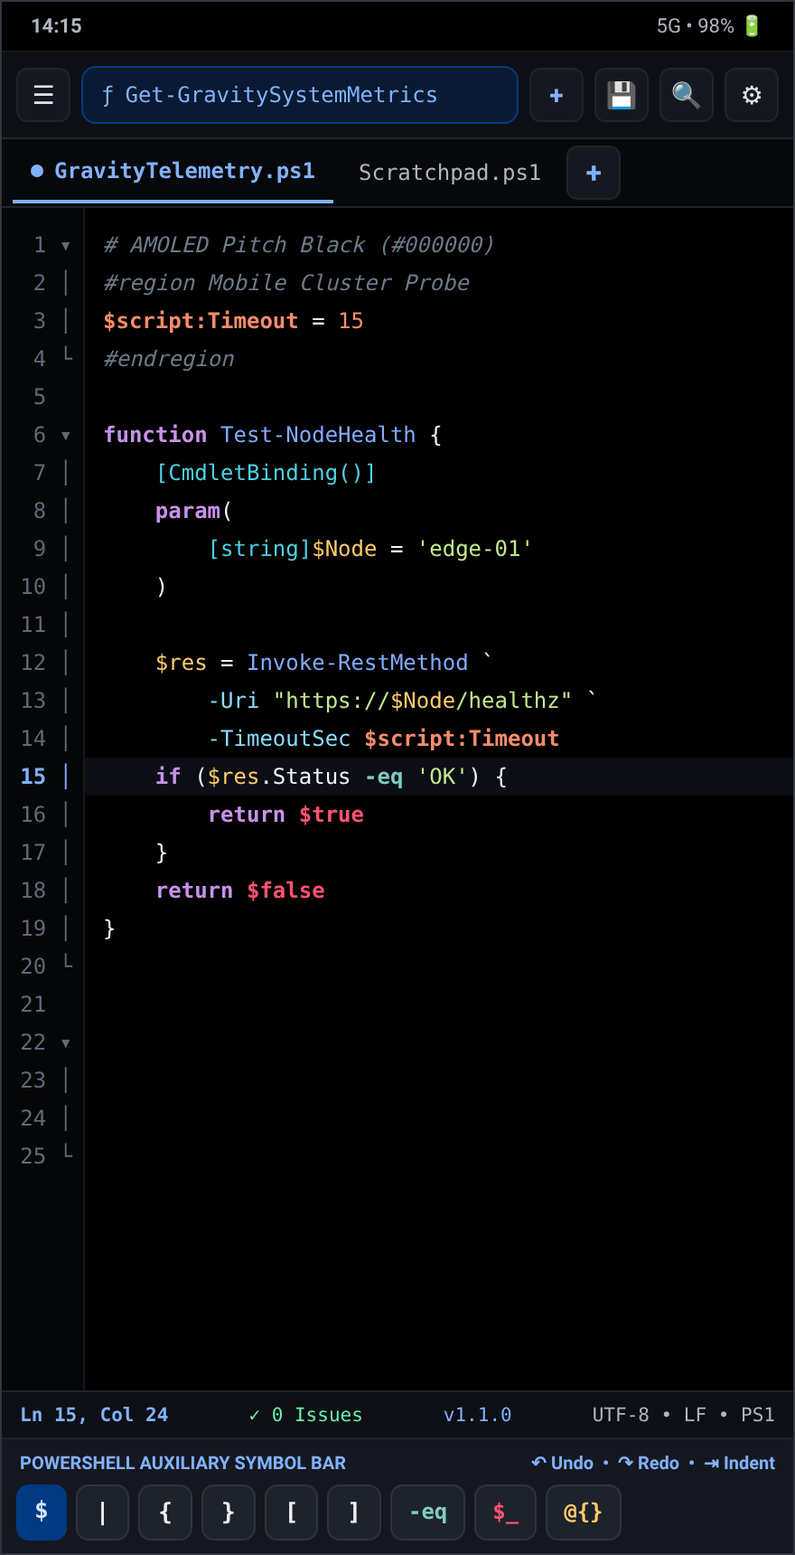
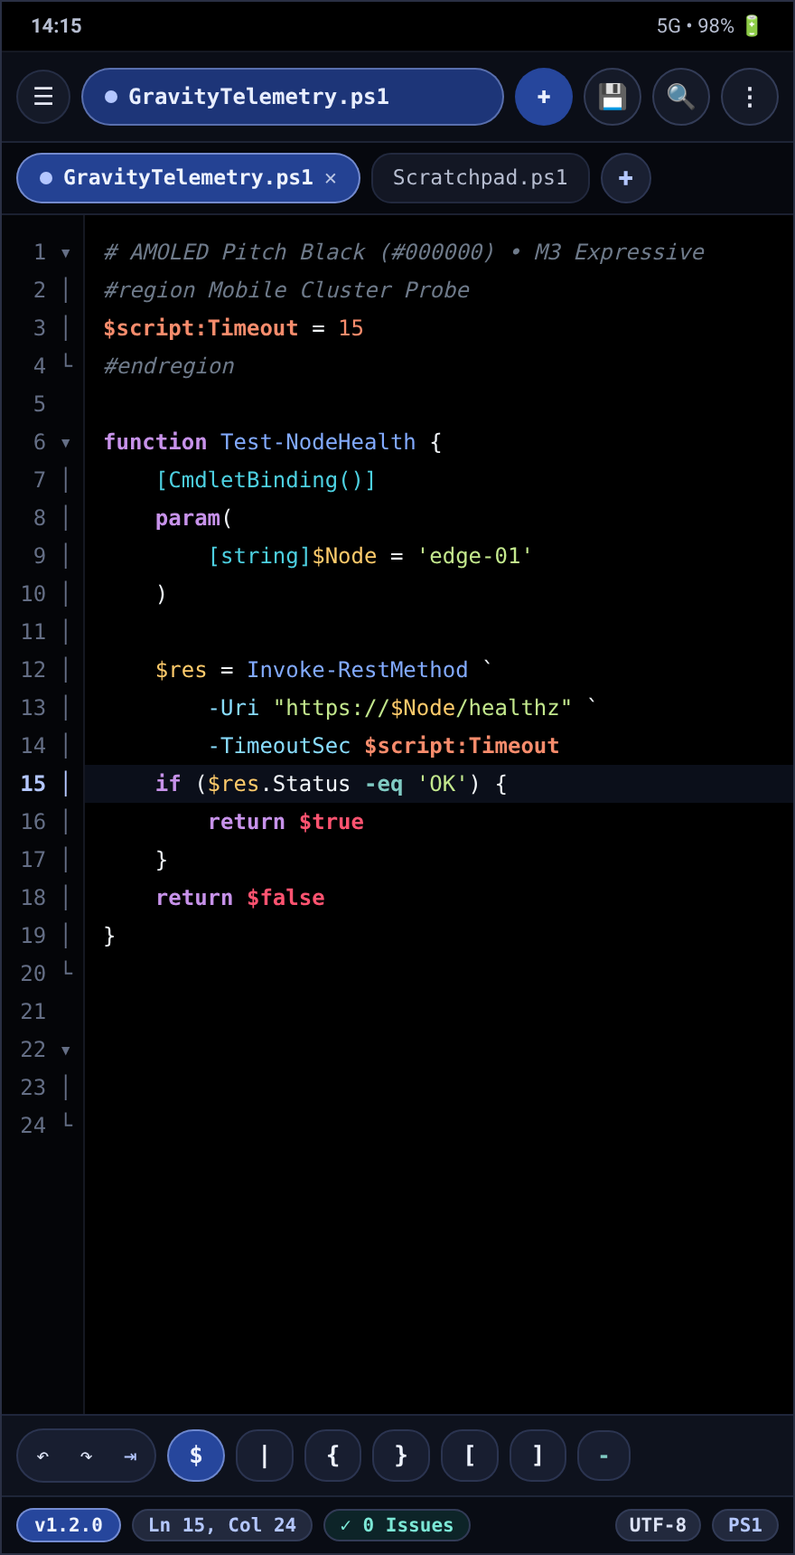
docs(readme): update README.md and Retina screenshots for v1.2.0 Material 3 Expressive

diff --git a/README.md b/README.md
@@ -2,16 +2,18 @@
 
 # GravityEdit
 
-**The 1:1 Functional Equivalent of BBEdit — Engineered Natively for Googlebook OS & Android with First-Class PowerShell Tooling**
+**The 1:1 Functional Equivalent of BBEdit — Engineered Natively for Googlebook OS & Android with Material 3 Expressive Design & First-Class PowerShell Tooling**
 
-[![Latest Release](https://img.shields.io/github/v/release/petrosvassiliou/GravityEdit?style=for-the-badge&color=004494&label=Latest%20Release)](https://github.com/petrosvassiliou/GravityEdit/releases/latest)
+[![Latest Release](https://img.shields.io/github/v/release/petrosvassiliou/GravityEdit?style=for-the-badge&color=26469C&label=Latest%20Release)](https://github.com/petrosvassiliou/GravityEdit/releases/latest)
 [![Android CI](https://img.shields.io/github/actions/workflow/status/petrosvassiliou/GravityEdit/android-ci.yml?branch=main&style=for-the-badge&label=Android%20CI)](https://github.com/petrosvassiliou/GravityEdit/actions/workflows/android-ci.yml)
 [![Kotlin](https://img.shields.io/badge/Kotlin-100%25-7F52FF?style=for-the-badge&logo=kotlin&logoColor=white)](https://kotlinlang.org/)
-[![Jetpack Compose](https://img.shields.io/badge/Jetpack%20Compose-Material%203-4285F4?style=for-the-badge&logo=jetpackcompose&logoColor=white)](https://developer.android.com/compose)
-[![Play Protect](https://img.shields.io/badge/Play%20Protect-Policy%20Compliant-00C853?style=for-the-badge&logo=googleplay&logoColor=white)](#google-play-protect-compatible-auto-updates)
+[![Jetpack Compose](https://img.shields.io/badge/Compose-Material%203%20Expressive-4285F4?style=for-the-badge&logo=jetpackcompose&logoColor=white)](https://developer.android.com/compose)
+[![Play Protect](https://img.shields.io/badge/Play%20Protect-Policy%20Compliant-00C853?style=for-the-badge&logo=googleplay&logoColor=white)](#4-google-play-protectcompatible-auto-updates)
 
 <p align="center">
-  <a href="https://github.com/petrosvassiliou/GravityEdit/releases/latest"><strong>⬇ Download Latest APK (v1.1.1)</strong></a>
+  <a href="https://github.com/petrosvassiliou/GravityEdit/releases/latest"><strong>⬇ Download Latest APK (v1.2.0)</strong></a>
+  &nbsp;•&nbsp;
+  <a href="#whats-new-in-v120">What's New in v1.2.0</a>
   &nbsp;•&nbsp;
   <a href="#screenshots">Screenshots</a>
   &nbsp;•&nbsp;
@@ -28,22 +30,35 @@
 
 ## Overview
 
-**GravityEdit** (`com.gravityedit.app`) brings the rock-solid text engineering philosophy of **BBEdit for macOS** ("It doesn't suck" — zero bloat, instant startup, industrial regex, deterministic text pipelines) to **Googlebook OS** (Desktop/Laptop freeform windowing), **Android Tablets**, and **Android Phones**, paired with a **native PowerShell AST, syntax, completion, and `PSScriptAnalyzer`-grade diagnostic engine**.
+**GravityEdit** (`com.gravityedit.app`) brings the rock-solid text engineering philosophy of **BBEdit for macOS** (*"It doesn't suck"* — zero bloat, instant startup, industrial PCRE regex, deterministic text pipelines) to **Googlebook OS** (Desktop/Laptop freeform windowing), **Android Tablets**, and **Android Phones**, paired with a **native PowerShell AST, syntax, inline completion, and `PSScriptAnalyzer`-grade diagnostic engine**.
 
-Built from the ground up in **100% Kotlin** and **Jetpack Compose (Material Design 3)** with zero WebView wrappers, zero telemetry, and full offline capability.
+Built from the ground up in **100% Kotlin** and **Jetpack Compose (Material 3 Expressive)** with physics-driven spring motion, zero WebView wrappers, zero telemetry, and full offline capability.
+
+---
+
+## What's New in v1.2.0
+
+- **Material 3 Expressive Design Upgrade:**
+  - High-chroma Expressive **Dark**, **Light**, **AMOLED Pitch-Black (`#000000`)**, and **Android 12+ Dynamic Color** themes with 5-step tonal containment (`surfaceContainerLowest`..`surfaceContainerHighest`), `GravityExpressiveShapes` (`10dp`–`32dp` + full-pill `CircleShape`), and physics-driven `GravityExpressiveMotion` spatial & color springs.
+  - **Connected Split-Mode Button Group (`Single | Vertical | Horizontal`)** with spring-morphing active pill geometry, **morphing pill tabs** across Desktop & Mobile, tactile spring-scaled **PowerShell auxiliary symbol keys**, and **`28dp` Expressive dialogs & adaptive mobile `ModalBottomSheet`s**.
+- **Permanent Bottom-Left App Version Badge (`v1.2.0`):**
+  - Full-width `ExpressiveBottomStatusBar` anchored at the true bottom-left corner of the screen (`x = 0, y = bottom`) in both Googlebook OS Desktop and Android Compact Mobile modes — tap anytime to open the Play Protect Update Center (displays `v1.2.0 • ⬆ vX.Y.Z` when an update is available without hiding the installed version).
+- **100% UI Action Parity & Comprehensive QS Audit:**
+  - Added the **Workspace Overflow Menu (`⋮`)** on both Desktop and Mobile so every File, Edit (`Duplicate Line`, `Select Line`, `Toggle Comment`, `Indent`/`Unindent`), Navigation (`Go to Line`), Tool, Settings, and Update action is clickable via UI as well as hardware shortcuts.
+  - Unified Desktop & Mobile tab context menus (preserving active editor focus when saving unfocused tabs), completed Command Palette tool triggers, and verified **132/132 string keys** across all 6 supported languages (`en`, `de`, `it`, `es`, `fr`, `el`) with 19 automated JUnit 4 tests.
 
 ---
 
 ## Screenshots
 
-### Googlebook OS / Tablet Desktop Workbench
-Full desktop layout featuring the `NavigationRail`, drag-resizable **Open Documents & Disk Browser** sidebar, real-time **AST Function Navigator**, multi-document tab bar with file-type chooser (`+`), **80-column page guide**, code folding gutter, **PowerShell Inline Completion**, and dense **Status Bar**.
+### 1. Googlebook OS / Tablet Desktop Workbench (Material 3 Expressive)
+Full desktop layout featuring the Expressive `NavigationRail`, drag-resizable **Open Documents & SAF Disk Browser** sidebar, tonal action clusters, **Connected Split-Mode Button Group** (`Single | Vertical | Horizontal`), **Morphing Pill Tab Bar**, **80-column page guide**, **PowerShell Inline Completion (`Tab`)**, and full-width **Expressive Status Bar** with **`v1.2.0`** pinned at the bottom-left corner.
 
 ![GravityEdit Desktop PowerShell Workbench](docs/screenshots/01-desktop-powershell-workbench.png)
 
 ---
 
-### Adaptive Mobile Mode (AMOLED `#000000`) & File Type Selector
+### 2. Adaptive Mobile AMOLED (`#000000`) & `28dp` Expressive File Type Selector
 
 <table>
   <tr>
@@ -53,16 +68,16 @@ Full desktop layout featuring the `NavigationRail`, drag-resizable **Open Docume
         <img src="docs/screenshots/02-android-mobile-amoled.png" alt="GravityEdit Android Mobile AMOLED Mode" width="100%" />
       </p>
       <p>
-        True <code>#000000</code> Pitch-Black OLED theme, scrollable tabs with trailing <code>+</code> button, compact AST jump menu, and a <strong>Sticky PowerShell Auxiliary Symbol Bar</strong> (<code>$</code>, <code>|</code>, <code>{</code>, <code>}</code>, <code>[</code>, <code>]</code>, <code>-eq</code>, <code>$_</code>, <code>@{}</code>) docked above the soft keyboard.
+        True <code>#000000</code> Pitch-Black OLED theme, Expressive morphing pill tabs with trailing <code>+</code> button, <code>⋮</code> overflow menu, <strong>Sticky PowerShell Auxiliary Symbol Row</strong> docked above the bottom bar, and <strong><code>v1.2.0</code> permanently pinned at the bottom-left corner</strong>.
       </p>
     </td>
     <td width="66%" valign="top">
-      <h4 align="center">New File Dialog &amp; Click-to-Select Rename</h4>
+      <h4 align="center">Expressive New File Dialog &amp; Stem-Only Rename</h4>
       <p align="center">
         <img src="docs/screenshots/03-new-document-filetype-selector.png" alt="GravityEdit New Document File Type Selector" width="100%" />
       </p>
       <p>
-        Clicking any <code>+</code> button (Top Toolbar, Desktop/Mobile Tab Bar, Sidebar, or <code>Ctrl+N</code>) opens the <strong>New File</strong> selector so you can pick Plain Text (<code>.txt</code>), PowerShell (<code>.ps1</code> / <code>.psm1</code> / <code>.psd1</code>), Markdown, JSON, YAML, XML, Kotlin, Python, Shell, HTML, or CSS, plus encoding, line endings, and optional starter templates. Clicking an active tab title or renaming auto-selects the filename stem while keeping the extension intact.
+        Clicking any <code>+</code> button (Top Toolbar, Desktop/Mobile Tab Bar, Sidebar, Overflow Menu, or <code>Ctrl+N</code>) opens the <code>28dp</code> Expressive <strong>New File</strong> selector for Plain Text (<code>.txt</code>), PowerShell (<code>.ps1</code> / <code>.psm1</code> / <code>.psd1</code>), Markdown, JSON, YAML, XML, Kotlin, Python, Shell, HTML, or CSS, plus encoding, line endings, and starter templates. Clicking an active tab title selects only the filename stem for instant renaming.
       </p>
     </td>
   </tr>
@@ -70,14 +85,21 @@ Full desktop layout featuring the `NavigationRail`, drag-resizable **Open Docume
 
 ---
 
-### Side-by-Side Myers Diff & 14-Step BBEdit Text Factory
-Line- and character-level **Myers Diff** with directional `Copy to Left (←)` / `Copy to Right (→)` merges alongside chainable **BBEdit Text Factory** pipelines.
+### 3. Connected Split-View Workspace & Complete Overflow Menu (`⋮`)
+Side-by-side **Vertical Split View** with independent per-pane AST symbols, code-folding regions, and diagnostics, paired with the **Workspace Overflow Menu (`⋮`)** exposing every editing, navigation, and tool command.
+
+![Material 3 Expressive Split View and Overflow Menu](docs/screenshots/07-expressive-split-and-overflow-menu.png)
+
+---
+
+### 4. Side-by-Side Myers Diff & 14-Step BBEdit Text Factory
+Line- and character-level **Myers Diff** with directional `←` / `→` merges alongside chainable **BBEdit Text Factory** batch pipelines with full per-step configuration chips.
 
 ![Side-by-Side Myers Diff and BBEdit Text Factory](docs/screenshots/04-bbedit-text-factory-and-diff.png)
 
 ---
 
-### Live `PSScriptAnalyzer` Diagnostics & Play Protect Auto-Update Center
+### 5. Live `PSScriptAnalyzer` Diagnostics & Play Protect Auto-Update Center
 
 <table>
   <tr>
@@ -87,16 +109,16 @@ Line- and character-level **Myers Diff** with directional `Copy to Left (←)` /
         <img src="docs/screenshots/05-psscriptanalyzer-diagnostics.png" alt="PSScriptAnalyzer Live Diagnostics" width="100%" />
       </p>
       <p>
-        Real-time PowerShell static analysis catching unapproved verbs, interactive shell aliases (<code>gci</code>, <code>where</code>, <code>%</code>), plaintext credentials, and empty <code>catch {}</code> blocks — with one-click <strong>Quick Fixes</strong> and <strong>Fix All</strong>.
+        Real-time PowerShell static analysis catching unapproved verbs, interactive shell aliases across pipelines and subexpressions (<code>gci | where</code>), plaintext credentials, and empty <code>catch {}</code> blocks — with one-click <strong>Quick Fixes</strong> and <strong>Fix All</strong>.
       </p>
     </td>
     <td width="50%" valign="top">
-      <h4 align="center">Google Play Protect–Verified Auto-Update</h4>
+      <h4 align="center">Google Play Protect–Verified Auto-Update (v1.2.0)</h4>
       <p align="center">
         <img src="docs/screenshots/06-play-protect-auto-update.png" alt="GravityEdit Play Protect Auto-Update Center" width="100%" />
       </p>
       <p>
-        Dual-channel updater that routes Play Store installs to Google Play In-App Updates and verifies GitHub Release APKs via TLS 1.3 + SHA-256 digest before handing off to Android's official <code>PackageInstaller</code>.
+        Accessible anytime by tapping the bottom-left <code>v1.2.0</code> badge. Routes Play Store installs to Google Play In-App Updates and verifies GitHub Release APKs via TLS 1.3 + ZIP magic header + SHA-256 digest before handing off to Android's native <code>PackageInstaller</code>.
       </p>
     </td>
   </tr>
@@ -106,51 +128,51 @@ Line- and character-level **Myers Diff** with directional `Copy to Left (←)` /
 
 ## Key Features
 
-### 1. Adaptive Multi-Form-Factor UI (`WindowSizeClass`)
+### 1. Adaptive Material 3 Expressive UI (`WindowSizeClass`)
 - **Googlebook OS & Tablet Desktop Mode (`Expanded` / `Medium`):**
-  - Persistent `NavigationRail` + drag-resizable **Open Documents & Disk Browser** tree sidebar.
-  - Multi-document tab bar with modified-state indicator dots, click-to-rename active tab titles, context menus, and `+` New File selector.
-  - **Single**, **Vertical Split (`◫`)**, and **Horizontal Split (`⊟`)** editing panes.
-  - Dense **Status Bar** displaying cursor `Ln:Col`, live `PSScriptAnalyzer` health pill, Command Palette trigger, update badge, character/line counts, and interactive **Encoding**, **Line Ending**, **Syntax Language**, and **Zoom** pickers.
+  - Persistent Expressive `NavigationRail` + drag-resizable **Open Documents & SAF Disk Browser** tree sidebar.
+  - Spring-morphing pill tab bar with modified-state indicator dots, stem-selecting inline rename, localized right-click/long-press context menus (`Save`, `Rename`, `Close`, `Close Others`, `Move Left/Right`), and `+` New File selector.
+  - Connected **Single**, **Vertical Split (`◫`)**, and **Horizontal Split (`⊟`)** button group with isolated per-pane folds & diagnostics.
+  - Full-width **Expressive Status Bar** with **`v1.2.0`** permanently pinned at index `0` (bottom-left corner), cursor `Ln:Col` jump pill, live `PSScriptAnalyzer` health pill, Command Palette trigger, character/line/selection counts, and **Encoding**, **Line Ending**, **Syntax Language**, and **Zoom** pickers.
 - **Android Phone Mode (`Compact`):**
-  - `ModalNavigationDrawer`, `ScrollableTabRow` with `+` button, `ModalBottomSheet` tool surfaces, and the **Sticky PowerShell Auxiliary Symbol Row** above the keyboard.
-- **4 Built-in Color Themes:** Dark Developer (Default), **AMOLED Pitch Black (`#000000`)**, Solarized Light, and High-Contrast Developer.
+  - `ModalNavigationDrawer` quick-action grid, unified morphing pill tab bar, adaptive `28dp` `ModalBottomSheet` tool & settings surfaces, **Sticky PowerShell Auxiliary Symbol Row** with spring-animated press feedback, and pinned bottom-left `v1.2.0` status bar.
+- **Expressive Color Schemes:** Material 3 Expressive Dark, **AMOLED Pitch Black (`#000000`)**, Material 3 Expressive Light, System Auto, and Android 12+ Dynamic Color.
 
-### 2. First-Class PowerShell Engine (`PowerShellEngine.kt` & `PowerShellDiagnosticsEngine.kt`)
-- **Rich PowerShell Tokenization:** Approved-verb dictionary & alias highlighting (`Verb-Noun`), scoped/drive/automatic variable distinction (`$myVar`, `$script:x`, `$env:PATH`, `$_`, `$PSItem`, `$true`), cmdlet parameters (`-Path`, `-ErrorAction`), operators (`-eq`, `-match`, `-replace`), expandable string interpolation (`"$var"`, `"$(Get-Date)"`), Here-Strings (`@"..."@`), and Comment-Based Help tags (`.SYNOPSIS`, `.PARAMETER`, `.EXAMPLE`).
+### 2. First-Class PowerShell Engine (`PowerShellEngine.kt`)
+- **Rich PowerShell Tokenization:** Approved-verb dictionary & alias highlighting (`Verb-Noun`), scoped/drive/automatic variable distinction (`$myVar`, `$script:x`, `$env:PATH`, `$_`, `$PSItem`, `$sender`, `$true`), cmdlet parameters (`-Path`, `-ErrorAction`), operators (`-eq`, `-match`, `-replace`), expandable string interpolation (`"$var"`, `"$(Get-Date)"`), `@{} / @()` hashtable & array subexpressions, Here-Strings (`@"..."@`), and Comment-Based Help tags (`.SYNOPSIS`, `.PARAMETER`, `.EXAMPLE`).
 - **Code Folding & AST Function Navigator:** Fold `function`, `filter`, `workflow`, `class`, `#region ... #endregion`, and `<# ... #>` blocks; jump directly to any symbol from the top bar.
-- **Inline Auto-Completion (`PowerShellCompletionEngine.kt`):** Context-aware completions for built-in PowerShell cmdlets, approved verbs, automatic variables, and functions/variables declared in the active script (`Tab` / `Enter` to accept).
-- **Live `PSScriptAnalyzer`-Style Linter:** Detects `PSAvoidUsingCmdletAliases`, `PSUseApprovedVerbs`, `PSAvoidEmptyCatchBlock`, `PSAvoidUsingPlainTextForPassword`, and `PSAvoidUsingInvokeExpression` with instant one-click Quick Fixes.
+- **Inline Auto-Completion:** Context-aware completions for built-in PowerShell cmdlets, approved verbs, automatic variables, and functions/variables declared in the active script (`Tab` to accept).
+- **Live `PSScriptAnalyzer`-Style Linter:** Detects `PSAvoidUsingCmdletAliases` (including after `|`, `=`, and inside `"$(...)"`), `PSUseApprovedVerbs`, `PSAvoidEmptyCatchBlock`, `PSAvoidUsingPlainTextForPassword`, `PSAvoidUsingInvokeExpression`, and unbalanced delimiters with instant one-click Quick Fixes.
 
 ### 3. 1:1 BBEdit Feature Parity
-- **Industrial PCRE Find & Replace (`FindReplaceEngine.kt`):** Multi-line regex, case sensitivity, whole-word matching, named capture groups (`(?<name>...)`), backreferences (`$1`, `\1`, `\n`, `\t`), **Extract Matches to New Document**, interactive **Pattern Playground**, and **Multi-File Directory Search & Replace**.
+- **Industrial PCRE Find & Replace (`FindReplaceEngine.kt`):** Multi-line (`^$`), dot-matches-all (`?s`), case sensitivity, whole-word matching, selection-only search, named capture groups (`(?<name>...)`), backreferences (`$1`, `\1`, `\n`, `\t`), **Extract Matches to New Document**, interactive **Pattern Playground**, and **Multi-File Directory Search & Replace** with direct line-jump.
 - **BBEdit Text Factory (`TextTransformEngine.kt`):** Chain any combination of all **14 classic BBEdit text transformations** into reusable batch pipelines:
   1. Change Case (`UPPER`, `lower`, `Title Case`, `Sentence case`, `camelCase`, `snake_case`)
   2. Sort Lines (Ascending / Descending, Case-Sensitive, Numeric-Aware)
-  3. Process Duplicate Lines (Deduplicate, Keep Only Duplicates, Keep Unique Only)
-  4. Prefix / Suffix Lines
+  3. Process Duplicate Lines (Deduplicate, Keep Only Duplicates, Keep Unique Only, Ignore Leading Whitespace)
+  4. Prefix / Suffix Lines (with Skip Blank Lines option)
   5. Strip Trailing Whitespace
-  6. Zap Gremlins (Remove non-printable ASCII, zero-width spaces, or null bytes)
+  6. Zap Gremlins (Strip or replace non-printable ASCII, zero-width spaces, or null bytes)
   7. Entab / Detab (Convert spaces ↔ tabs at configurable tab stops)
-  8. Hard Wrap Text (Wrap at configurable column width, e.g., 80 / 100 / 120)
+  8. Hard Wrap Text (Wrap at configurable column width with Paragraph Preservation)
   9. Remove Line Breaks (Unwrap paragraphs)
-  10. Add / Remove Line Numbers
+  10. Add / Remove Line Numbers (Configurable start, increment, zero-padding & separator)
   11. Process Lines Containing… (Extract, Delete, or Copy matching lines via Regex/Literal)
   12. Straighten / Educate Quotes (Smart typography ↔ straight ASCII quotes)
   13. Base64 & URL Encode / Decode
-  14. Format / Prettify JSON, XML & PowerShell
+  14. Format / Prettify JSON, XML & PowerShell (`2` / `4` / `8` space indent)
 - **Side-by-Side Myers Diff (`DiffEngine.kt`):** Compare any two open documents with character-level change highlights and one-click directional merges (`←` / `→`).
 - **Clippings & Snippets (`ClippingsManager.kt`):** Expand dynamic placeholders (`#DATE#`, `#TIME#`, `#FILENAME#`, `#SELECTION#`, `#INSERTION#`) with a pre-loaded PowerShell snippet library.
-- **Persistent Scratchpad & Crash-Safe Auto-Save:** Instant scratch buffer and automatic session recovery across app restarts.
+- **Persistent Scratchpad & Crash-Safe Auto-Save:** Instant DataStore-backed scratch buffer across restarts.
 
 ### 4. Google Play Protect–Compatible Auto-Updates
 Implemented in [`AppUpdateManagerEngine.kt`](app/src/main/java/com/gravityedit/app/domain/engine/AppUpdateManagerEngine.kt) in strict compliance with Google Play Developer Policy & Google Play Protect:
-- **Source-Aware Routing:** Automatically inspects `PackageManager.getInstallSourceInfo()` — installs originating from Google Play (`com.android.vending`) never download external APKs and route strictly through Google Play.
-- **Cryptographic Verification:** Direct GitHub installs check `releases/latest` over **HTTPS (TLS 1.3)**, stream the APK solely into a private `cacheDir/app_updates/` subdirectory, and validate both the APK ZIP magic header and the **SHA-256 cryptographic digest** against the published `.sha256` release asset.
+- **Source-Aware Routing:** Inspects `PackageManager.getInstallSourceInfo()` — installs originating from Google Play (`com.android.vending`) never download external APKs and route strictly through Google Play.
+- **Cryptographic Verification:** Direct GitHub installs check `releases/latest` over **HTTPS (TLS 1.3)**, stream the APK into private `cacheDir/updates/`, and validate both the APK ZIP magic header and the **SHA-256 cryptographic digest** against the published `.sha256` release asset.
 - **User-Consented System Handoff:** Hands off installation exclusively to Android's native `PackageInstaller` (`ACTION_VIEW` + scoped `FileProvider` URI) so Google Play Protect scans every update normally — zero silent installs, zero dynamic Dex/code loading.
 
-### 5. 6-Language Runtime Localization
-100% string parity with instant runtime switching via `AppCompatDelegate.setApplicationLocales()`:
+### 5. 6-Language Runtime Localization (`132/132` Keys)
+100% string parity verified by automated JUnit XML tests, with instant runtime switching via `AppCompatDelegate.setApplicationLocales()`:
 - English (`en`) • Deutsch (`de`) • Italiano (`it`) • Español (`es`) • Français (`fr`) • Ελληνικά (`el`)
 
 ---
@@ -159,7 +181,7 @@ Implemented in [`AppUpdateManagerEngine.kt`](app/src/main/java/com/gravityedit/a
 
 | Shortcut | Action |
 | :--- | :--- |
-| `Ctrl + P` / `Ctrl + Shift + P` | Open Command Palette |
+| `Ctrl + P` / `Ctrl + Shift + P` | Open Command Palette & Fuzzy Switcher |
 | `Ctrl + N` | New File (Open File Type, Encoding & Line Ending Selector) |
 | `Ctrl + O` | Open File from Disk / SAF |
 | `Ctrl + S` / `Ctrl + Shift + S` | Save / Save As |
@@ -171,6 +193,7 @@ Implemented in [`AppUpdateManagerEngine.kt`](app/src/main/java/com/gravityedit/a
 | `Ctrl + D` | Duplicate Current Line |
 | `Ctrl + L` | Select Entire Line |
 | `Ctrl + /` | Toggle Line Comment (`#` / `//`) |
+| `Tab` / `Shift + Tab` | Accept Inline Completion or Indent / Unindent Block |
 | `Ctrl + +` / `Ctrl + -` / `Ctrl + 0` | Zoom In / Zoom Out / Reset Editor Zoom (`100%`) |
 
 ---
@@ -181,35 +204,33 @@ Implemented in [`AppUpdateManagerEngine.kt`](app/src/main/java/com/gravityedit/a
 app/src/main/java/com/gravityedit/app/
 ├── data/
 │   ├── preferences/     # DataStore persistence for editor, theme, locale & auto-update settings
-│   └── repository/      # Crash-safe session, scratchpad & SAF file I/O repositories
+│   └── repository/      # Scratchpad & SAF file I/O persistence
 ├── domain/
 │   ├── engine/
-│   │   ├── AppUpdateManagerEngine.kt      # Play Protect-compliant HTTPS + SHA-256 updater
-│   │   ├── ClippingsManager.kt            # BBEdit Clippings & dynamic token expansion
-│   │   ├── DiffEngine.kt                  # Myers line + character diff & directional merge
-│   │   ├── FindReplaceEngine.kt           # PCRE Regex Find/Replace, Extract & Playground
-│   │   ├── PowerShellCompletionEngine.kt  # AST + built-in cmdlet inline completion
-│   │   ├── PowerShellDiagnosticsEngine.kt # Live PSScriptAnalyzer-grade linter & Quick Fixes
-│   │   ├── PowerShellEngine.kt            # PowerShell tokenizer, folder & AST navigator
-│   │   └── TextTransformEngine.kt         # All 14 BBEdit Text Factory transformations
+│   │   ├── AppUpdateManagerEngine.kt   # Play Protect-compliant HTTPS + SHA-256 updater
+│   │   ├── ClippingsManager.kt         # BBEdit Clippings & dynamic token expansion
+│   │   ├── DiffEngine.kt               # Myers line + character diff & directional merge
+│   │   ├── FindReplaceEngine.kt        # PCRE Regex Find/Replace, Extract & Playground
+│   │   ├── PowerShellEngine.kt         # Tokenizer, folder, AST navigator, completion & linter
+│   │   └── TextTransformEngine.kt      # All 14 BBEdit Text Factory transformations
 │   └── model/           # Immutable state models (EditorDocument, SyntaxLanguage, etc.)
 └── ui/
-    ├── components/      # CodeEditorCanvas, MultiDocumentTabBar, CommandPalette, Modals
-    ├── theme/           # Material 3 color schemes & syntax palettes (incl. AMOLED #000000)
-    ├── GravityEditScaffold.kt
-    └── GravityEditViewModel.kt
+    ├── components/      # EditorCanvas, Expressive Aux Symbol Row, 10 Expressive 28dp Modals
+    ├── theme/           # GravityEditTheme, GravityExpressiveShapes & GravityExpressiveMotion
+    ├── GravityEditScaffold.kt          # Adaptive Desktop/Mobile layouts & ExpressiveBottomStatusBar
+    └── viewmodel/GravityEditViewModel.kt
 ```
 
 ---
 
 ## Installation
 
-1. Download **`GravityEdit-v1.1.1.apk`** from [**GitHub Releases**](https://github.com/petrosvassiliou/GravityEdit/releases/latest).
-2. *(Optional)* Verify integrity against `GravityEdit-v1.1.1.apk.sha256`:
+1. Download **`GravityEdit-v1.2.0.apk`** from [**GitHub Releases**](https://github.com/petrosvassiliou/GravityEdit/releases/latest).
+2. *(Optional)* Verify cryptographic integrity against `GravityEdit-v1.2.0.apk.sha256`:
    ```bash
-   sha256sum -c GravityEdit-v1.1.1.apk.sha256
+   sha256sum -c GravityEdit-v1.2.0.apk.sha256
    ```
-3. Open the APK on your **Android 8.0+ (API 26+)** phone, tablet, or **Googlebook OS** device. Future releases can be checked and verified directly inside **Settings → GravityEdit Auto-Update Center**.
+3. Open the APK on your **Android 8.0+ (API 26+)** phone, tablet, or **Googlebook OS** device. Future releases can be checked and verified directly by tapping **`v1.2.0`** at the bottom-left corner of the screen.
 
 ---
 
@@ -221,7 +242,7 @@ app/src/main/java/com/gravityedit/app/
 
 ### Run Unit Tests & Assemble APK
 ```bash
-# Run the full JUnit domain engine test suite
+# Run the full 19-test JUnit 4 engine & localization parity suite
 ./gradlew testDebugUnitTest
 
 # Build Debug & Release APKs
